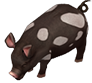
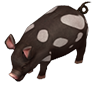
last code
last code

diff --git a/src/js/map.js b/src/js/map.js
@@ -34,14 +34,18 @@ for (let i = 0; i < json_re.length; i++) {
   }
 
   if (json_re[i]["name"].indexOf("stone1") > -1 ) {
-    wb[reName].scaleX = wb[reName].scaleY = 0.7 + ((random1(0, 20000) - 10000) / 100000);
+    wb[reName].scaleX = wb[reName].scaleY = 0.5 + ((random1(0, 20000) - 10000) / 100000);
   }
 
-  if (json_re[i]["name"].indexOf("shu1") > -1) {
-    // var text = new createjs.Text(reName + ',' + json_re[i]["left"] + ',' + json_re[i]["top"], "28px Arial", "#000");
-    // text.x = wb[reName].x; text.y = wb[reName].y+80;
-    // text.color ="#00c0ff";
-    // text.textBaseline = "alphabetic";
+  if (json_re[i]["name"].indexOf("stoneRoad") > -1) {
+    wb[reName].alpha = 0.5;
+  }
+  
+  if (json_re[i]["name"].indexOf("baoxiang") > -1) {
+    var text = new createjs.Text(reName + ',' + json_re[i]["left"] + ',' + json_re[i]["top"], "28px Arial", "#000");
+    text.x = wb[reName].x; text.y = wb[reName].y+80;
+    text.color ="#00c0ff";
+    text.textBaseline = "alphabetic";
   }
 
 
@@ -52,6 +56,10 @@ for (let i = 0; i < json_re.length; i++) {
 
   if (typeof json_re[i]["skewY"] != "undefined") {
     wb[reName].skewY = json_re[i]["skewY"];
+  }
+
+  if (typeof json_re[i]["rotation"] != "undefined") {
+    wb[reName].rotation = json_re[i]["rotation"];
   }
 
   if (typeof json_re[i]["contaier"] != "undefined") {

diff --git a/src/js/imgResource.js b/src/js/imgResource.js
@@ -117,10 +117,11 @@ var yanhua2_all = new createjs.SpriteSheet({
 var pig_all = new createjs.SpriteSheet({
   framerate: 15,
   "images": [pig_],
-  "frames": { "regX": 0, "height": 83, "count": 8, "regY": 0, "width": 92 },
+  "frames": { "regX": 0, "height": 83, "count": 9, "regY": 0, "width": 92 },
   "animations": {
     "start": [0, 7, "stop", 0.2],
     "stop": [0],
+    "back": [8],
   },
 });
 
@@ -276,7 +277,7 @@ setTimeout(function () {
   // addRectBitmap_simple('cs4_1','cs4_1',sprite_,json_sprite,0.5,0.5,970.3,846.1,"addArrAll",true);
   // addRectBitmap_simple('cs4_2','cs4_2',sprite_,json_sprite,0.5,0.5,971.8,790.5,"addArrAll",true);
   addRectBitmap_simple('an1_1', 'muban', sprite_, json_sprite, 0.5, 0.5, 740.8, 1288.5 , "addArrAll", true);
-  addRectBitmap_simple('an1_2', 'stone', sprite_, json_sprite, 0.36, 0.52, 738.1, 1313.1  , "addArrAll", true);
+  addRectBitmap_simple('an1_2', 'stone', sprite_, json_sprite, 0.36, 0.52, 744, 1308  , "addArrAll", true);
   addRectBitmap_simple('an2_1', 'cs2_1', sprite_, json_sprite, 0.8, 0.2, 1657.3, 1237.5, "addArrAll", true);
   addRectBitmap_simple('an2_2', 'cs2_2', sprite_, json_sprite, 0.5, 0.5, 1638.7, 1254.5, "addArrAll", true);
   addRectBitmap_simple('an3_1', 'cs3_1', sprite_, json_sprite, 0.5, 0.5, 2142.3, 996.6, "addArrAll", true);

diff --git a/src/js/index.js b/src/js/index.js
@@ -1,5 +1,6 @@
 import 'yuki-createjs/lib/easeljs-0.8.2.combined'
 import 'yuki-createjs/lib/tweenjs-0.6.2.combined'
+// import { call } from 'file-loader';
 // import createjs from 'script-loader!createjs/builds/createjs-2015.11.26.min';
 // import createjs from 'createjs-npm/lib/create';
 require('./loadMusic.js');
@@ -155,8 +156,8 @@ window.onload=function(){
 
   let pigHide = (time) => {
     recoveryChoose();
-    createjs.Tween.get(wsp.pig_ani1).wait(time).to({ alpha: 0, x: 1424, y: 873 }, 500, createjs.Ease.quartIn);
-    createjs.Tween.get(wsp.pig_ani2).wait(time).to({ alpha: 0, x: 1506, y: 978 }, 500, createjs.Ease.quartIn).wait(350).call(function(){
+    createjs.Tween.get(wsp.pig_ani1).wait(time).call(function () { wsp.pig_ani1.gotoAndPlay("back");w1.lock=false }).wait(100).to({ alpha: 0, x: 1424, y: 873 }, 500, createjs.Ease.quartIn);
+    createjs.Tween.get(wsp.pig_ani2).wait(time).call(function () { wsp.pig_ani2.gotoAndPlay("back");w2.lock = false }).wait(100).to({ alpha: 0, x: 1506, y: 978 }, 500, createjs.Ease.quartIn).wait(350).call(function(){
       gotoLast();
     });
   }

diff --git a/webpack.config.js b/webpack.config.js
@@ -34,16 +34,16 @@ module.exports = {
   ],
   optimization: { //与entry同级
     minimizer: [
-      // new UglifyJsPlugin({
-      //   uglifyOptions: {
-      //     compress: false,
-      //     mangle: true,
-      //     output: {
-      //       comments: false,
-      //     },
-      //   },
-      //   sourceMap: false,
-      // })
+      new UglifyJsPlugin({
+        uglifyOptions: {
+          compress: false,
+          mangle: true,
+          output: {
+            comments: false,
+          },
+        },
+        sourceMap: false,
+      })
     ]
   },
   // 使用webpack-dev-server -D 把热更新安装到本地

diff --git a/src/js/reset.js b/src/js/reset.js
@@ -121,7 +121,7 @@ window.Shu_logo_y = 822;
 window.yanhua_lock = true;
 window.cx = 348;
 window.cy = 40;
-window.waitTime = 7000;
+window.waitTime = 700000;
 window.steps = "start";
 window.bitmaps = window.bitmaps || {};
 window.sprite = window.sprite || {};
